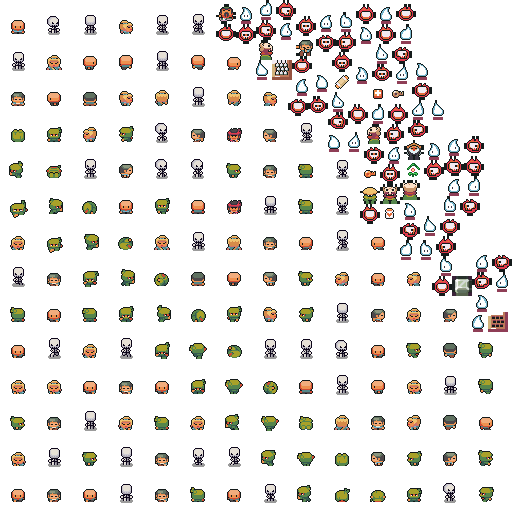
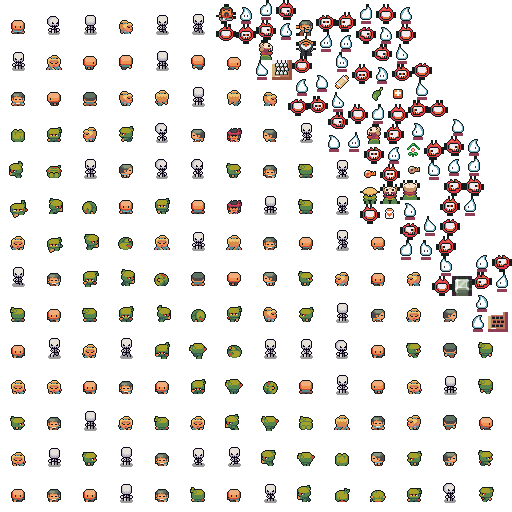
Add Laurel leaf item and drop mechanic after defeating GiantBlueSamurai

Changed region(s): [[0.5625, 0.0, 0.9688, 0.4375]]

diff --git a/assets/maps/objects.tsx b/assets/maps/objects.tsx
@@ -1,5 +1,5 @@
 <?xml version="1.0" encoding="UTF-8"?>
-<tileset version="1.10" tiledversion="1.12.2" name="objects" tilewidth="96" tileheight="112" tilecount="36" columns="0">
+<tileset version="1.10" tiledversion="1.12.2" name="objects" tilewidth="96" tileheight="112" tilecount="37" columns="0">
  <grid orientation="orthogonal" width="1" height="1"/>
  <tile id="1" type="Object">
   <properties>
@@ -556,6 +556,20 @@
   <objectgroup draworder="index" id="2">
    <object id="1" x="4" y="11" width="8" height="4">
     <ellipse/>
+   </object>
+  </objectgroup>
+ </tile>
+ <tile id="39" type="Object">
+  <properties>
+   <property name="bodyType" value="StaticBody"/>
+   <property name="itemType" value="LAUREL_LEAF"/>
+  </properties>
+  <image source="objects/laurel_leaf.png" width="16" height="16"/>
+  <objectgroup draworder="index" id="2">
+   <object id="1" x="0" y="0" width="16" height="16">
+    <properties>
+     <property name="sensor" type="bool" value="true"/>
+    </properties>
    </object>
   </objectgroup>
  </tile>

diff --git a/core/src/main/java/io/github/com/group31/screen/GameScreen.java b/core/src/main/java/io/github/com/group31/screen/GameScreen.java
@@ -105,7 +105,7 @@ public class GameScreen extends ScreenAdapter {
         this.engine.addSystem(new DoorSystem());
         this.engine.addSystem(new ItemSystem(audioService, viewModel));
         this.engine.addSystem(new LifeSystem(this.viewModel));
-        this.engine.addSystem(new DeadSystem(this.viewModel));
+        this.engine.addSystem(new DeadSystem(this.viewModel, this.tiledAshleyConfigurator));
         this.engine.addSystem(new AnimationSystem(game.getAssetService()));
         this.engine.addSystem(new CameraSystem(game.getCamera()));
         this.engine.addSystem(new SlashFxLifetimeSystem());
@@ -205,7 +205,6 @@ public class GameScreen extends ScreenAdapter {
                     physic.getPrevPosition().set(data.playerX, data.playerY);
                 }
 
-                // Khôi phục Inventory từ file lưu
                 Inventory inventory = Inventory.MAPPER.get(player);
                 if (inventory != null) {
                     inventory.setItemCount(Item.Type.POTION_HEALTH, data.playerPotions);
@@ -216,7 +215,8 @@ public class GameScreen extends ScreenAdapter {
                     inventory.setItemCount(Item.Type.SOOTHING_HERB, data.playerSoothingHerbs);
                     inventory.setItemCount(Item.Type.JUNGLE_MAP_KEY, data.playerJungleMapKeys);
                     inventory.setItemCount(Item.Type.SILVER_CUP, data.playerSilverCups);
-                    viewModel.updateInventory(data.playerPotions, data.playerCoins, data.playerKeys, data.playerGoldKeys, data.playerSilverKeys, data.playerSoothingHerbs, data.playerJungleMapKeys, data.playerSilverCups);
+                    inventory.setItemCount(Item.Type.LAUREL_LEAF, data.playerLaurelLeaves);
+                    viewModel.updateInventory(data.playerPotions, data.playerCoins, data.playerKeys, data.playerGoldKeys, data.playerSilverKeys, data.playerSoothingHerbs, data.playerJungleMapKeys, data.playerSilverCups, data.playerLaurelLeaves);
                 }
 
                 // Khôi phục CombatState từ file lưu
@@ -330,6 +330,7 @@ public class GameScreen extends ScreenAdapter {
                         data.playerSoothingHerbs = inventory.getItemCount(Item.Type.SOOTHING_HERB);
                         data.playerJungleMapKeys = inventory.getItemCount(Item.Type.JUNGLE_MAP_KEY);
                         data.playerSilverCups = inventory.getItemCount(Item.Type.SILVER_CUP);
+                        data.playerLaurelLeaves = inventory.getItemCount(Item.Type.LAUREL_LEAF);
                     }
 
                     CombatState cs = CombatState.MAPPER.get(player);
@@ -431,6 +432,7 @@ public class GameScreen extends ScreenAdapter {
         int soothingHerbs = inventory != null ? inventory.getItemCount(Item.Type.SOOTHING_HERB) : 0;
         int jungleMapKeys = inventory != null ? inventory.getItemCount(Item.Type.JUNGLE_MAP_KEY) : 0;
         int silverCups = inventory != null ? inventory.getItemCount(Item.Type.SILVER_CUP) : 0;
+        int laurelLeaves = inventory != null ? inventory.getItemCount(Item.Type.LAUREL_LEAF) : 0;
 
         // Lưu lại trạng thái CombatState trước khi chuyển map
         CombatState cs = CombatState.MAPPER.get(player);
@@ -495,7 +497,8 @@ public class GameScreen extends ScreenAdapter {
                     newInventory.setItemCount(Item.Type.SOOTHING_HERB, soothingHerbs);
                     newInventory.setItemCount(Item.Type.JUNGLE_MAP_KEY, jungleMapKeys);
                     newInventory.setItemCount(Item.Type.SILVER_CUP, silverCups);
-                    viewModel.updateInventory(potions, coins, keys, goldKeys, silverKeys, soothingHerbs, jungleMapKeys, silverCups);
+                    newInventory.setItemCount(Item.Type.LAUREL_LEAF, laurelLeaves);
+                    viewModel.updateInventory(potions, coins, keys, goldKeys, silverKeys, soothingHerbs, jungleMapKeys, silverCups, laurelLeaves);
                 }
 
                 // Khôi phục CombatState

diff --git a/core/src/main/java/io/github/com/group31/system/ControllerSystem.java b/core/src/main/java/io/github/com/group31/system/ControllerSystem.java
@@ -378,7 +378,8 @@ public class ControllerSystem extends IteratingSystem {
             inventory.getItemCount(Item.Type.SILVER_KEY),
             inventory.getItemCount(Item.Type.SOOTHING_HERB),
             inventory.getItemCount(Item.Type.JUNGLE_MAP_KEY),
-            inventory.getItemCount(Item.Type.SILVER_CUP)
+            inventory.getItemCount(Item.Type.SILVER_CUP),
+            inventory.getItemCount(Item.Type.LAUREL_LEAF)
         );
     }
 
@@ -517,7 +518,9 @@ public class ControllerSystem extends IteratingSystem {
                             inventory.getItemCount(Item.Type.GOLD_KEY),
                             inventory.getItemCount(Item.Type.SILVER_KEY),
                             inventory.getItemCount(Item.Type.SOOTHING_HERB),
-                            inventory.getItemCount(Item.Type.JUNGLE_MAP_KEY)
+                            inventory.getItemCount(Item.Type.JUNGLE_MAP_KEY),
+                            inventory.getItemCount(Item.Type.SILVER_CUP),
+                            inventory.getItemCount(Item.Type.LAUREL_LEAF)
                         );
                     }
                 } catch (Exception e) {
@@ -560,7 +563,8 @@ public class ControllerSystem extends IteratingSystem {
                         inventory.getItemCount(Item.Type.SILVER_KEY),
                         inventory.getItemCount(Item.Type.SOOTHING_HERB),
                         inventory.getItemCount(Item.Type.JUNGLE_MAP_KEY),
-                        inventory.getItemCount(Item.Type.SILVER_CUP)
+                        inventory.getItemCount(Item.Type.SILVER_CUP),
+                        inventory.getItemCount(Item.Type.LAUREL_LEAF)
                     );
                 }
                 getEngine().removeEntity(closestNpc);
@@ -580,7 +584,8 @@ public class ControllerSystem extends IteratingSystem {
                         inventory.getItemCount(Item.Type.SILVER_KEY),
                         inventory.getItemCount(Item.Type.SOOTHING_HERB),
                         inventory.getItemCount(Item.Type.JUNGLE_MAP_KEY),
-                        inventory.getItemCount(Item.Type.SILVER_CUP)
+                        inventory.getItemCount(Item.Type.SILVER_CUP),
+                        inventory.getItemCount(Item.Type.LAUREL_LEAF)
                     );
                     Transform transform = Transform.MAPPER.get(player);
                     if (transform != null) {
@@ -630,7 +635,8 @@ public class ControllerSystem extends IteratingSystem {
                         inventory.getItemCount(Item.Type.SILVER_KEY),
                         inventory.getItemCount(Item.Type.SOOTHING_HERB),
                         inventory.getItemCount(Item.Type.JUNGLE_MAP_KEY),
-                        inventory.getItemCount(Item.Type.SILVER_CUP)
+                        inventory.getItemCount(Item.Type.SILVER_CUP),
+                        inventory.getItemCount(Item.Type.LAUREL_LEAF)
                     );
                 }
                 getEngine().removeEntity(closestNpc);

diff --git a/core/src/main/java/io/github/com/group31/quest/QuestManager.java b/core/src/main/java/io/github/com/group31/quest/QuestManager.java
@@ -222,7 +222,8 @@ public class QuestManager {
                                 inv.getItemCount(Item.Type.SILVER_KEY),
                                 inv.getItemCount(Item.Type.SOOTHING_HERB),
                                 inv.getItemCount(Item.Type.JUNGLE_MAP_KEY),
-                                inv.getItemCount(Item.Type.SILVER_CUP)
+                                inv.getItemCount(Item.Type.SILVER_CUP),
+                                inv.getItemCount(Item.Type.LAUREL_LEAF)
                             );
                         }
                         Transform transform = Transform.MAPPER.get(player);
@@ -278,7 +279,8 @@ public class QuestManager {
                             inv.getItemCount(Item.Type.SILVER_KEY),
                             inv.getItemCount(Item.Type.SOOTHING_HERB),
                             inv.getItemCount(Item.Type.JUNGLE_MAP_KEY),
-                            inv.getItemCount(Item.Type.SILVER_CUP)
+                            inv.getItemCount(Item.Type.SILVER_CUP),
+                            inv.getItemCount(Item.Type.LAUREL_LEAF)
                         );
                     }
                     Transform transform = Transform.MAPPER.get(player);
@@ -345,7 +347,8 @@ public class QuestManager {
                             inv.getItemCount(Item.Type.SILVER_KEY),
                             inv.getItemCount(Item.Type.SOOTHING_HERB),
                             inv.getItemCount(Item.Type.JUNGLE_MAP_KEY),
-                            inv.getItemCount(Item.Type.SILVER_CUP)
+                            inv.getItemCount(Item.Type.SILVER_CUP),
+                            inv.getItemCount(Item.Type.LAUREL_LEAF)
                         );
                     }
                 }
@@ -396,7 +399,8 @@ public class QuestManager {
                                 inv.getItemCount(Item.Type.SILVER_KEY),
                                 inv.getItemCount(Item.Type.SOOTHING_HERB),
                                 inv.getItemCount(Item.Type.JUNGLE_MAP_KEY),
-                                inv.getItemCount(Item.Type.SILVER_CUP)
+                                inv.getItemCount(Item.Type.SILVER_CUP),
+                                inv.getItemCount(Item.Type.LAUREL_LEAF)
                             );
                         }
                         Transform transform = Transform.MAPPER.get(player);

diff --git a/core/src/main/java/io/github/com/group31/tiled/TiledAshleyConfigurator.java b/core/src/main/java/io/github/com/group31/tiled/TiledAshleyConfigurator.java
@@ -720,6 +720,49 @@ public class TiledAshleyConfigurator {
         this.engine.addEntity(itemEntity);
     }
 
+    public void spawnLaurelLeaf(float x, float y) {
+        Entity itemEntity = this.engine.createEntity();
+
+        float size = 0.5f;
+        Transform transform = new Transform(
+            new Vector2(x, y),
+            1,
+            new Vector2(size, size),
+            new Vector2(1f, 1f),
+            0f,
+            0f
+        );
+        itemEntity.add(transform);
+
+        TextureAtlas atlas = assetService.get(AtlasAsset.OBJECTS);
+        TextureRegion region = atlas.findRegion("laurel_leaf/laurel_leaf");
+        if (region != null) {
+            itemEntity.add(new Graphic(region, Color.WHITE.cpy()));
+        } else {
+            com.badlogic.gdx.Gdx.app.error("TiledAshleyConfigurator", "Failed to find atlas region: laurel_leaf/laurel_leaf");
+        }
+
+        BodyDef bodyDef = new BodyDef();
+        bodyDef.type = BodyDef.BodyType.StaticBody;
+        bodyDef.position.set(x + size * 0.5f, y + size * 0.5f);
+        Body body = this.physicWorld.createBody(bodyDef);
+        body.setUserData(itemEntity);
+
+        PolygonShape shape = new PolygonShape();
+        shape.setAsBox(size * 0.5f, size * 0.5f);
+
+        FixtureDef fixtureDef = new FixtureDef();
+        fixtureDef.shape = shape;
+        fixtureDef.isSensor = true;
+        body.createFixture(fixtureDef);
+        shape.dispose();
+
+        itemEntity.add(new Physic(body, new Vector2(body.getPosition())));
+        itemEntity.add(new Item(Item.Type.LAUREL_LEAF, 1f, SoundAsset.PICKUP));
+
+        this.engine.addEntity(itemEntity);
+    }
+
     public void spawnBomb(float x, float y) {
         Entity bombEntity = this.engine.createEntity();
 
@@ -846,6 +889,7 @@ public class TiledAshleyConfigurator {
             case JUNGLE_MAP_KEY -> SoundAsset.PICKUP;
             case BOMB          -> SoundAsset.TRAP;
             case SILVER_CUP    -> SoundAsset.PICKUP;
+            case LAUREL_LEAF   -> SoundAsset.PICKUP;
         };
 
         entity.add(new Item(type, 1f, sound));

diff --git a/core/src/main/java/io/github/com/group31/ui/model/GameViewModel.java b/core/src/main/java/io/github/com/group31/ui/model/GameViewModel.java
@@ -46,6 +46,7 @@ public class GameViewModel extends ViewModel {
     private int soothingHerbs;
     private int jungleMapKeys;
     private int silverCups;
+    private int laurelLeaves;
 
     private String[] activeDialogue = null;
     private String   currentWeaponName = "Đấm";
@@ -131,6 +132,7 @@ public class GameViewModel extends ViewModel {
     public int getSoothingHerbs() { return soothingHerbs; }
     public int getJungleMapKeys() { return jungleMapKeys; }
     public int getSilverCups() { return silverCups; }
+    public int getLaurelLeaves() { return laurelLeaves; }
 
     /**
      * Cập nhật số lượng item trong túi đồ và thông báo cho View.
@@ -152,6 +154,10 @@ public class GameViewModel extends ViewModel {
     }
 
     public void updateInventory(int potions, int coins, int keys, int goldKeys, int silverKeys, int soothingHerbs, int jungleMapKeys, int silverCups) {
+        updateInventory(potions, coins, keys, goldKeys, silverKeys, soothingHerbs, jungleMapKeys, silverCups, this.laurelLeaves);
+    }
+
+    public void updateInventory(int potions, int coins, int keys, int goldKeys, int silverKeys, int soothingHerbs, int jungleMapKeys, int silverCups, int laurelLeaves) {
         this.potions = potions;
         this.coins   = coins;
         this.keys    = keys;
@@ -160,8 +166,9 @@ public class GameViewModel extends ViewModel {
         this.soothingHerbs = soothingHerbs;
         this.jungleMapKeys = jungleMapKeys;
         this.silverCups = silverCups;
+        this.laurelLeaves = laurelLeaves;
         // Gửi các số dưới dạng mảng int[] để View tự parse
-        this.propertyChangeSupport.firePropertyChange(INVENTORY_CHANGED, null, new int[]{potions, coins, keys, goldKeys, silverKeys, soothingHerbs, jungleMapKeys, silverCups});
+        this.propertyChangeSupport.firePropertyChange(INVENTORY_CHANGED, null, new int[]{potions, coins, keys, goldKeys, silverKeys, soothingHerbs, jungleMapKeys, silverCups, laurelLeaves});
     }
 
     public void scarecrowHitsChanged(int index, int hits) {

diff --git a/core/src/main/java/io/github/com/group31/system/DeadSystem.java b/core/src/main/java/io/github/com/group31/system/DeadSystem.java
@@ -8,6 +8,8 @@ import io.github.com.group31.component.Animation2D;
 import io.github.com.group31.component.Dead;
 import io.github.com.group31.component.Experience;
 import io.github.com.group31.component.Player;
+import io.github.com.group31.tiled.TiledAshleyConfigurator;
+import io.github.com.group31.component.Transform;
 import io.github.com.group31.component.Tiled;
 import io.github.com.group31.ui.model.GameViewModel;
 
@@ -19,11 +21,13 @@ public class DeadSystem extends IteratingSystem {
     private static final float REMOVAL_DELAY = 1.5f;
 
     private final GameViewModel viewModel;
+    private final TiledAshleyConfigurator configurator;
     private ImmutableArray<Entity> playerEntities;
 
-    public DeadSystem(GameViewModel viewModel) {
+    public DeadSystem(GameViewModel viewModel, TiledAshleyConfigurator configurator) {
         super(Family.all(Dead.class).get());
         this.viewModel = viewModel;
+        this.configurator = configurator;
     }
 
     @Override
@@ -67,6 +71,10 @@ public class DeadSystem extends IteratingSystem {
                 }
                 if ("GiantBlueSamurai".equals(name)) {
                     removeStoneBlockGates();
+                    Transform transform = Transform.MAPPER.get(entity);
+                    if (transform != null) {
+                        configurator.spawnLaurelLeaf(transform.getPosition().x, transform.getPosition().y);
+                    }
                 }
             }
             if (tiled != null && tiled.getTileId() == 9) {

diff --git a/core/src/main/java/io/github/com/group31/system/ItemSystem.java b/core/src/main/java/io/github/com/group31/system/ItemSystem.java
@@ -90,6 +90,13 @@ public class ItemSystem extends IteratingSystem {
                 io.github.com.group31.quest.QuestManager.INSTANCE.checkHerbPickup(collector);
             } else if (type == Item.Type.GOLD_KEY) {
                 io.github.com.group31.quest.QuestManager.INSTANCE.checkGoldKeyPickup(collector);
+            } else if (type == Item.Type.LAUREL_LEAF) {
+                Transform t = Transform.MAPPER.get(collector);
+                if (t != null) {
+                    float x = t.getPosition().x + t.getSize().x * 0.5f;
+                    float y = t.getPosition().y + t.getSize().y;
+                    viewModel.showFloatingText("[GREEN]+1 Laurel Leaf![]", x, y);
+                }
             } else if (type == Item.Type.JUNGLE_MAP_KEY) {
                 Transform t = Transform.MAPPER.get(collector);
                 if (t != null) {
@@ -113,7 +120,8 @@ public class ItemSystem extends IteratingSystem {
                 inventory.getItemCount(Item.Type.SILVER_KEY),
                 inventory.getItemCount(Item.Type.SOOTHING_HERB),
                 inventory.getItemCount(Item.Type.JUNGLE_MAP_KEY),
-                inventory.getItemCount(Item.Type.SILVER_CUP)
+                inventory.getItemCount(Item.Type.SILVER_CUP),
+                inventory.getItemCount(Item.Type.LAUREL_LEAF)
             );
         }
 

diff --git a/core/src/main/java/io/github/com/group31/ui/view/GameView.java b/core/src/main/java/io/github/com/group31/ui/view/GameView.java
@@ -417,6 +417,9 @@ public class GameView extends View<GameViewModel> implements Disposable {
             if (viewModel.getSilverCups() > 0) {
                 items.add(new InvItem(atlas.findRegion("silver_cup/silver_cup"), viewModel.getSilverCups()));
             }
+            if (viewModel.getLaurelLeaves() > 0) {
+                items.add(new InvItem(atlas.findRegion("laurel_leaf/laurel_leaf"), viewModel.getLaurelLeaves()));
+            }
             for (String wName : viewModel.getUnlockedWeapons()) {
                 if ("SWORD".equalsIgnoreCase(wName)) {
                     items.add(new InvItem(atlas.findRegion("weapon_sword/weapon_sword"), 1));

diff --git a/core/src/main/java/io/github/com/group31/save/SaveData.java b/core/src/main/java/io/github/com/group31/save/SaveData.java
@@ -16,6 +16,7 @@ public class SaveData {
     public int playerSoothingHerbs;
     public int playerJungleMapKeys;
     public int playerSilverCups;
+    public int playerLaurelLeaves;
     public int questStage;
     public java.util.List<String> unlockedWeapons;
     public int currentWeaponIndex;

diff --git a/core/src/main/java/io/github/com/group31/component/Item.java b/core/src/main/java/io/github/com/group31/component/Item.java
@@ -27,7 +27,8 @@ public class Item implements Component {
         WEAPON_RUSTY_SWORD,
         JUNGLE_MAP_KEY,
         BOMB,
-        SILVER_CUP
+        SILVER_CUP,
+        LAUREL_LEAF
     }
 
     private final Type type;
